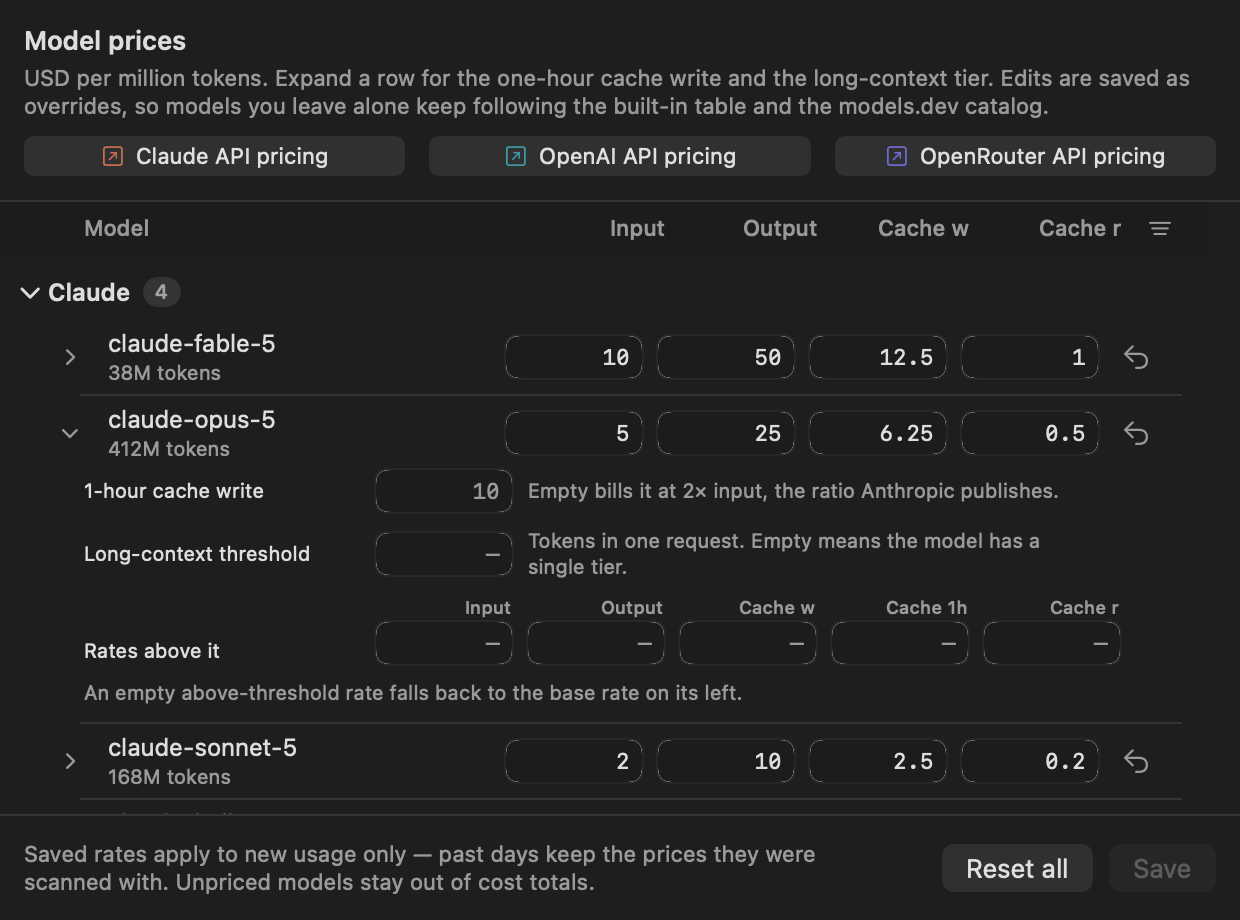
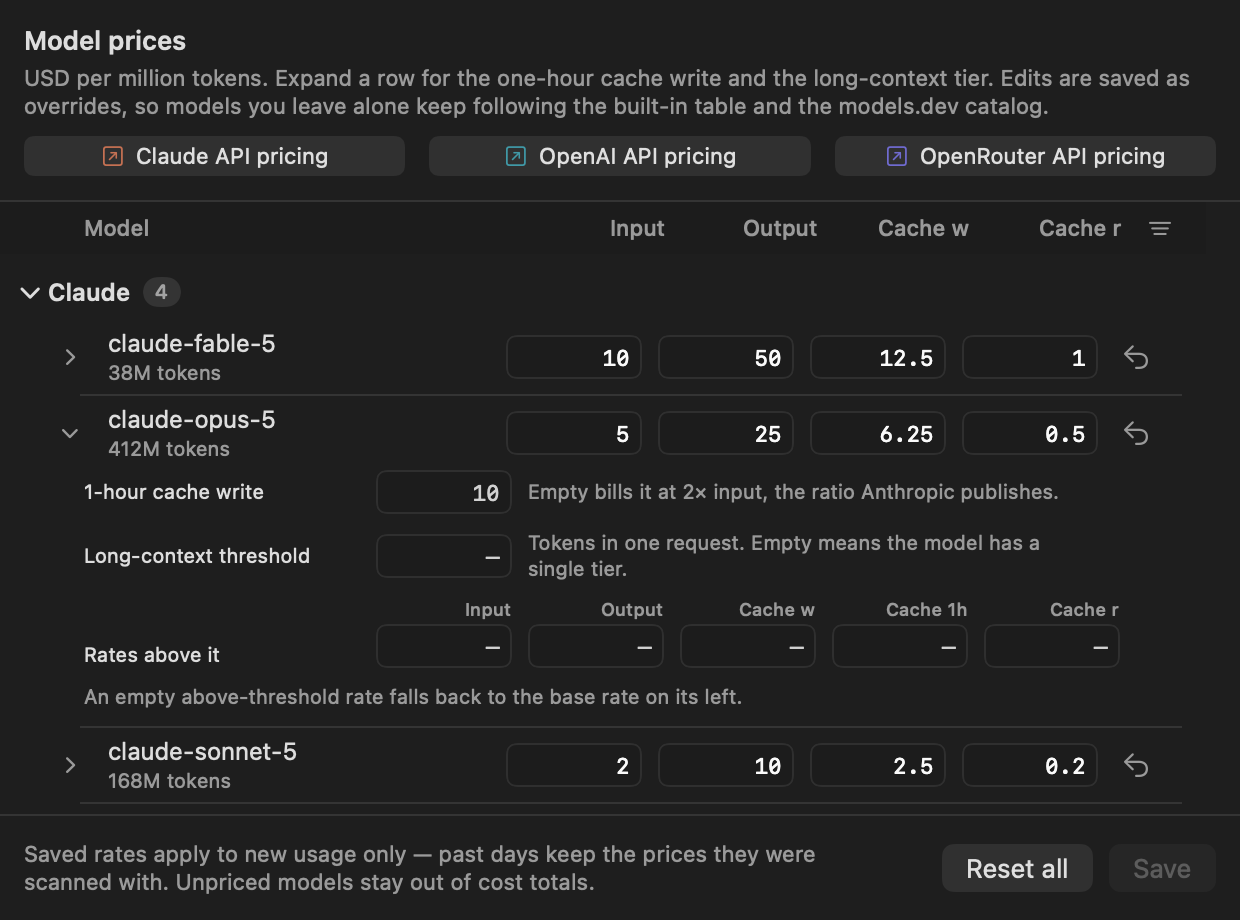
docs: sync the README with five pricing and chart changes
Five changes landed after the README rewrite and none of them reached it:
the chart's bars now scale by the selected label unit, the provider group
header answers a press with a restrained dip instead of the model row's
spring, a model row opens when its name is clicked, and a rate field marks
focus with an accent hairline that leaves the field's size alone. Both
studies behind the last two are added to the demo list.

The unit swap gets the largest rewrite, because the click now changes the
chart as well as the reading, and `label-toggle.gif` is re-rendered to show
it. `settings-pricing.png` is re-rendered for the new rate field. The note
on where each image comes from records that this strip reads its heights
from the shipped policy too.

diff --git a/README.zh-CN.md b/README.zh-CN.md
@@ -70,6 +70,11 @@
 出来的，而不是整块同时出现。箭头是转四分之一圈，不是换成另一个图标。只有控件本身有弹性：表格
 如果超调自己的高度，会把下面每一行都顶一下，那读起来像 bug 而不像节奏。
 
+按下的反馈按被按的东西的大小给。模型行的箭头只有 9pt，所以它按下去缩到 0.86，再顺着落地那条
+弹簧弹回来。供应商表头是整行那么宽，同样的幅度放在这么大一块上，读起来像整张表抖了一下，所以它
+只缩到 0.985，走 100ms 的 ease-out 回来，不会超调。`make demo-provider-group-press` 把它和「只有
+箭头缩」「只有底色变」「完全不给反馈」摆在一起比。
+
 <img src="docs/images/disclosure.gif" width="500" alt="价格分组把四行错开一拍依次卷出">
 
 **成本图表**会把高亮那根柱子抬高 5pt，并展开它当天的按模型明细。在柱子之间移动是在追指针，
@@ -82,14 +87,23 @@
 
 <img src="docs/images/chart-hover.gif" width="500" alt="每根柱子对应的按模型明细">
 
-点高亮的那根柱子，标签就在 token 数和金额之间换：
+点高亮的那根柱子，标签在 token 数和金额之间换，整张图表也跟着重新缩放：
 
-<img src="docs/images/label-toggle.gif" width="440" alt="高亮柱子的标签从 37M 糊开、又在原地析出 $37">
+<img src="docs/images/label-toggle.gif" width="440" alt="标签从 37M 糊开、在原地析出 $37，同时每根柱子从 token 口径重新缩放到金额口径">
 
-这一下点在指针本来就停着的柱子上，所以这次切换没有距离要走，也不移动：旧读数在 260ms 里糊开，
-新读数在原地从模糊中析出。这正是在说这两个读数是同一个量的两种数法。把一个数推开、让另一个滑
-进来，说的会是「标签被换掉了」。默认单位是 token，选择会被记住；点在两根柱子中间的缝里不会有
-任何反应。
+这个单位同时也是图表的高度口径。每根柱子按标签读的那个单位量，再拿同一单位下最高的那天当基准，
+所以一次点击换掉的是柱子本身和它们量度的那把尺。一周里如果大部分 token 是便宜模型花掉的，那这
+一周换成金额就是另一个形状，而这个差别正是你会去点它的原因。柱高走的是读数析出的那条 260ms 曲线，
+所以图形和数字是一起到的。
+
+读数本身不动。这一下点在指针本来就停着的柱子上，所以这次切换没有距离要走：旧读数糊开，新读数在
+原地从模糊中析出。这正是在说这两个读数是同一个量的两种数法。把一个数推开、让另一个滑进来，说的
+会是「标签被换掉了」。默认单位是 token，选择会被记住；点在两根柱子中间的缝里不会有任何反应。
+
+**价格表里的费率输入框**拿到焦点时，会在 90ms 里淡入一圈 1 像素的系统强调色描边。聚焦前后框
+的尺寸完全一样，描边画在它原本就占的那个框里面：每行有四个这样的框，一圈自己要占地方的焦点环
+会把整行顶一下。`make demo-rate-field-focus` 把它和内描边、淡色底、下划线，以及它替掉的那个原生
+`.roundedBorder` 输入框放在一起比。
 
 **指针**也会动。Codex 卡片比 Claude 卡片高，而菜单只能向下长，所以切换供应商时下面每一行都会
 从没动过的指针底下滑走。指针会跟着位移同样的距离，继续指着原来那一行。
@@ -140,6 +154,9 @@ token 和成本统计全部来自两家 CLI 自己的会话日志，不走任何
 读取、一小时缓存写入（留空则按输入价的两倍计，这是 Anthropic 公布的比例），以及长上下文档位和它
 自己的单请求 token 阈值。表格默认按供应商分组，各家的 API 模型保持官方顺序，本地日志里翻出来的
 其他模型排在它们下面、用得多的在前。点列头按该列排序，再点一次反序，表头右端的控件恢复默认顺序。
+
+一小时缓存写入和长上下文档位折在箭头后面。点模型名同样能展开这一行，于是可点的目标是整个左半
+行，而不是一个 9pt 的箭头。
 
 改过的费率只对之后的用量生效。已经扫描过的记录保留当时的价格，所以编辑不会重写过去的日子。
 
@@ -219,14 +236,16 @@ make clean
 验证器。各个设计对比稿都是同一个 debug 二进制上的启动参数：
 
 ```bash
-make demo               # 重置动效，带倍速控制
-make demo-number        # 标题百分比的候选方案对比
-make demo-bar-hover     # 图表柱子悬停的候选方案对比
-make demo-label-toggle  # 图表标签单位切换的候选方案对比
-make demo-disclosure    # 价格表折叠控件的候选方案对比
-make demo-tab-switch    # 设置页标签切换的候选方案对比
-make demo-pricing-links # 价格表头三个厂商链接的候选布局
-make demo-collapse      # 有无预留滚动条槽位时，价格分组折叠的对比
+make demo                      # 重置动效，带倍速控制
+make demo-number               # 标题百分比的候选方案对比
+make demo-bar-hover            # 图表柱子悬停的候选方案对比
+make demo-label-toggle         # 图表标签单位切换的候选方案对比
+make demo-disclosure           # 价格表折叠控件的候选方案对比
+make demo-provider-group-press # 供应商分组表头按下反馈的候选方案对比
+make demo-rate-field-focus     # 价格表费率输入框聚焦态的候选方案对比
+make demo-tab-switch           # 设置页标签切换的候选方案对比
+make demo-pricing-links        # 价格表头三个厂商链接的候选布局
+make demo-collapse             # 有无预留滚动条槽位时，价格分组折叠的对比
 ```
 
 `make readme-assets` 背后的各个 dump 也是同一个二进制上的参数：`--dump-card`、`--dump-icons`、
@@ -239,7 +258,8 @@ make demo-collapse      # 有无预留滚动条槽位时，价格分组折叠的
 和 `reset-toggle.gif` 是线上视图的逐帧导出；只有 `reset-toggle.gif` 的 dump 多加了一样东西：它把
 标签画成悬停状态，因为离屏渲染没有指针可以悬停。另外四张来自 `MotionFilmStrip`，它用的是替身布局，因为
 一个由两条 SwiftUI state 边驱动的胶囊没法从外面问它「140ms 时长什么样」；但这四张里的时长、曲线、
-弹簧和错拍参数，读的都是真实控件所用的同一组常量。
+弹簧和错拍参数，读的都是真实控件所用的同一组常量。`label-toggle.gif` 的柱高也是从线上那套策略里
+取的，所以里面那次重新缩放就是图表真的会做的那次，不是照着画的。
 
 `make probe` 会打印账号和用量元数据。贴到别处之前先看一眼。
 

diff --git a/README.md b/README.md
@@ -82,6 +82,12 @@ apart so a group unrolls from under its header instead of appearing all at once.
 a quarter turn rather than being swapped for a second glyph. Only the control springs: a table that
 overshoots its own height pushes every row below it, which reads as a bug rather than as a beat.
 
+A press is answered at the size of what was pressed. A model row's chevron is a 9pt glyph, so it
+dips to 0.86 and comes back on the settle spring. A provider header is a full-width row, and the
+same dip on something that wide reads as the table flinching, so it dips to 0.985 over 100ms and
+comes back on an ease-out that cannot overshoot. `make demo-provider-group-press` puts that against
+a chevron-only dip, a tint, and no press at all.
+
 <img src="docs/images/disclosure.gif" width="500" alt="A pricing group unrolling four rows one beat apart">
 
 **The cost chart** lifts the highlighted bar 5pt and opens its per-model breakdown. A move between
@@ -95,15 +101,28 @@ Hovering a bar opens what that day was actually made of:
 
 <img src="docs/images/chart-hover.gif" width="500" alt="Each bar's per-model breakdown">
 
-Clicking the highlighted bar swaps its label between tokens and cost:
+Clicking the highlighted bar swaps its label between tokens and cost, and rescales the chart under
+it:
 
-<img src="docs/images/label-toggle.gif" width="440" alt="The highlighted bar's label blurring out of 37M and resolving into $37">
+<img src="docs/images/label-toggle.gif" width="440" alt="The label blurring out of 37M into $37 while every bar rescales from the token metric to the cost one">
 
-The click lands on a bar the pointer is already on, so the swap has no distance to cover and does
-not move: the old reading blurs out over 260ms and the new one resolves out of the blur in its
+The unit is the chart's height metric too. Each bar is measured in whatever the label reads, against
+the tallest day in that same unit, so a click changes both the bars and the scale they are drawn
+against. A week where a cheap model spent most of the tokens is a different shape in dollars, and
+that difference is the reason to ask. The heights run to their new proportions on the 260ms curve
+the reading resolves on, so the chart and the number arrive together.
+
+The reading itself does not move. The click lands on a bar the pointer is already on, so the swap
+has no distance to cover: the old reading blurs out and the new one resolves out of the blur in its
 place. That is what says the two readings are one quantity counted twice. Sliding one number aside
 for the other would say the label had been replaced. Tokens is the starting unit, the choice is
 remembered, and a click that lands in the gap between two bars does nothing.
+
+**A rate field** in the pricing table marks focus with a one-pixel border in the system accent
+color, faded in over 90ms. The field is the same size focused as unfocused and the border is drawn
+inside the frame it already had, because four of these sit on every row and a ring that took its
+own space would nudge the row it landed in. `make demo-rate-field-focus` holds it against an inner
+ring, a wash, an underline and the stock `.roundedBorder` field it replaced.
 
 **The pointer** moves too. The Codex card is taller than the Claude card, and a menu can only grow
 downwards, so a provider switch slides every row out from under a pointer that never moved. The
@@ -161,6 +180,9 @@ Anthropic publishes), and the long-context tier with its own per-request thresho
 in provider groups with the API models in their published order, and anything else your logs turned
 up below them, most-used first. Click a column to sort by it, click again to reverse, and use the
 control at the right end of the header to go back.
+
+A row folds the one-hour cache write and the long-context tier away behind a chevron. The model
+name opens the row as well, so the target is the whole left half of it rather than a 9pt glyph.
 
 Saved rates apply going forward only. Everything already scanned keeps the prices it was scanned
 with, so an edit never rewrites past days.
@@ -248,14 +270,16 @@ verifiers that sample the motion curves frame by frame. The design studies are l
 same debug binary:
 
 ```bash
-make demo               # The reset animation, with speed controls
-make demo-number        # Candidate treatments for the headline percentage
-make demo-bar-hover     # Candidate hover treatments for the chart bars
-make demo-label-toggle  # Candidate treatments for the chart label's unit swap
-make demo-disclosure    # Candidate collapse controls for the pricing table
-make demo-tab-switch    # Candidate treatments for the settings tab switch
-make demo-pricing-links # Candidate layouts for the pricing header's vendor links
-make demo-collapse      # Folding the pricing groups with and without a scroller gutter
+make demo                      # The reset animation, with speed controls
+make demo-number               # Candidate treatments for the headline percentage
+make demo-bar-hover            # Candidate hover treatments for the chart bars
+make demo-label-toggle         # Candidate treatments for the chart label's unit swap
+make demo-disclosure           # Candidate collapse controls for the pricing table
+make demo-provider-group-press # Candidate press feedback for a provider group header
+make demo-rate-field-focus     # Candidate focus treatments for a pricing rate field
+make demo-tab-switch           # Candidate treatments for the settings tab switch
+make demo-pricing-links        # Candidate layouts for the pricing header's vendor links
+make demo-collapse             # Folding the pricing groups with and without a scroller gutter
 ```
 
 The dumps behind `make readme-assets` are flags on the same binary: `--dump-card`, `--dump-icons`,
@@ -271,7 +295,8 @@ is the only one where a dump adds anything: it draws the label hovered, because 
 has no pointer to hover with. The other four come from `MotionFilmStrip`, which poses stand-in layouts
 because a pill driven by two SwiftUI state edges cannot be asked what it looks like 140ms in; the
 durations, curves, springs and staggers in those four are read from the same constants the real
-controls animate on.
+controls animate on. `label-toggle.gif` takes its bar heights from the shipped policy as well, so
+the rescale in it is the one the chart performs rather than a drawing of it.
 
 `make probe` prints account and usage metadata. Read it before pasting it anywhere.
 
